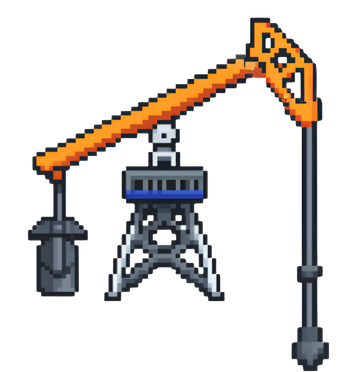
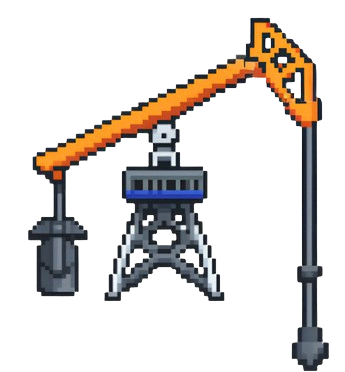
fixed animation

diff --git a/style.css b/style.css
@@ -41,7 +41,7 @@ body {
     padding: 14px 20px;
     cursor: pointer;
     user-select: none;
-    transition: transform 0.5s ease, background 0.1s ease;
+    transition: transform 0.12s ease, background 0.1s ease;
 }
 .nav-button:active {
     transform: scale(0.98);
@@ -59,7 +59,23 @@ body {
 }
 .heat-button {
     overflow: hidden;
-    background: linear-gradient(to right, #8b3f00 0%, #d97706 0%, #212428 0%);
+    background: #212428;
+    position: relative;
+}
+.heat-button::before {
+    content: '';
+    position: absolute;
+    top: 0;
+    left: 0;
+    bottom: 0;
+    width: var(--heat-pct, 0%);
+    background: linear-gradient(to right, #8b3f00, #d97706);
+    transition: width 0.35s ease;
+    pointer-events: none;
+}
+.heat-button > * {
+    position: relative;
+    z-index: 1;
 }
 .oil-count {
     display: inline-block;
@@ -106,14 +122,14 @@ body {
     width: 350px;
     height: auto;
     left: 50%;
-    bottom: -20px;
+    top: 331px;
     transform: translateX(-50%);
     user-select: none;
     pointer-events: none;
     -webkit-user-drag: none;
     object-fit: contain;
     z-index: 1;
-    transition: opacity 0.2s ease;
+    transition: opacity 0.45s ease;
 }
 #oil-rig-base {
     opacity: 1;
@@ -320,11 +336,13 @@ body {
 }
 /* ---------------- BOTTOM BUTTONS -------------------------------- */
 .bottom-controls {
+    position: fixed;
+    bottom: 40px;
+    left: 0;
+    right: 0;
     display: flex;
     justify-content: center;
     gap: 20px;
-    margin-top: 40px;
-    width: 100%;
 }
 .bottom-controls .nav-button {
     flex: 0 1 auto;

diff --git a/ui.js b/ui.js
@@ -94,13 +94,8 @@ const uiElements = {
 */
 function updateHeatUI(heatValue) {
     const clampedHeat = Math.max(0, Math.min(100, heatValue));
-
     if (uiElements.btnHeat) {
-        uiElements.btnHeat.style.background = `linear-gradient(to right, 
-            #8b3f00 0%,
-            #d97706 ${clampedHeat}%,
-            #212428 ${clampedHeat}%
-        )`;
+        uiElements.btnHeat.style.setProperty('--heat-pct', `${clampedHeat}%`);
     }
 }
 
@@ -385,12 +380,19 @@ function startRigAnimation() {
     }
 
     const applyFrame = () => {
+        if (!isSpinning) {
+            if (rigFrameExtended) {
+                rigFrameExtended = false;
+                uiElements.oilRigBase?.classList.remove('hidden');
+                uiElements.oilRigExtended?.classList.remove('visible');
+            }
+            return;
+        }
         rigFrameExtended = !rigFrameExtended;
         uiElements.oilRigBase?.classList.toggle('hidden', rigFrameExtended);
         uiElements.oilRigExtended?.classList.toggle('visible', rigFrameExtended);
     };
 
-    applyFrame();
     rigFrameTimerId = setInterval(applyFrame, rigFrameIntervalMs);
 }
 
@@ -593,7 +595,8 @@ function initWheelDrag() {
     // Wheel spinning physics vars
     let lastAngle = 0;
     let velocity = 0;
-    let friction = 0.98; // ADAPT AS NECESSARY --> Smaller number = more speed lost per frame 
+    let velocityHistory = [];
+    let friction = 0.98; // ADAPT AS NECESSARY --> Smaller number = more speed lost per frame
     let animationFrameId = null; // Physics animation loop reference
 
     const grabArea = 0.59; // Outer percent of wheel that you can grab ADAPT AS NECESSARY
@@ -674,6 +677,7 @@ function initWheelDrag() {
         }
 
         velocity = 0;
+        velocityHistory = [];
 
         const center = getCenter(wheel);
 
@@ -741,7 +745,9 @@ function initWheelDrag() {
 
         wheel.style.transform = `rotate(${currentRotation}deg)`;
 
-        velocity = appliedDiff;
+        velocityHistory.push(appliedDiff);
+        if (velocityHistory.length > 4) velocityHistory.shift();
+        velocity = velocityHistory.reduce((a, b) => a + b, 0) / velocityHistory.length;
         lastAngle = currentAngle;
     });
 